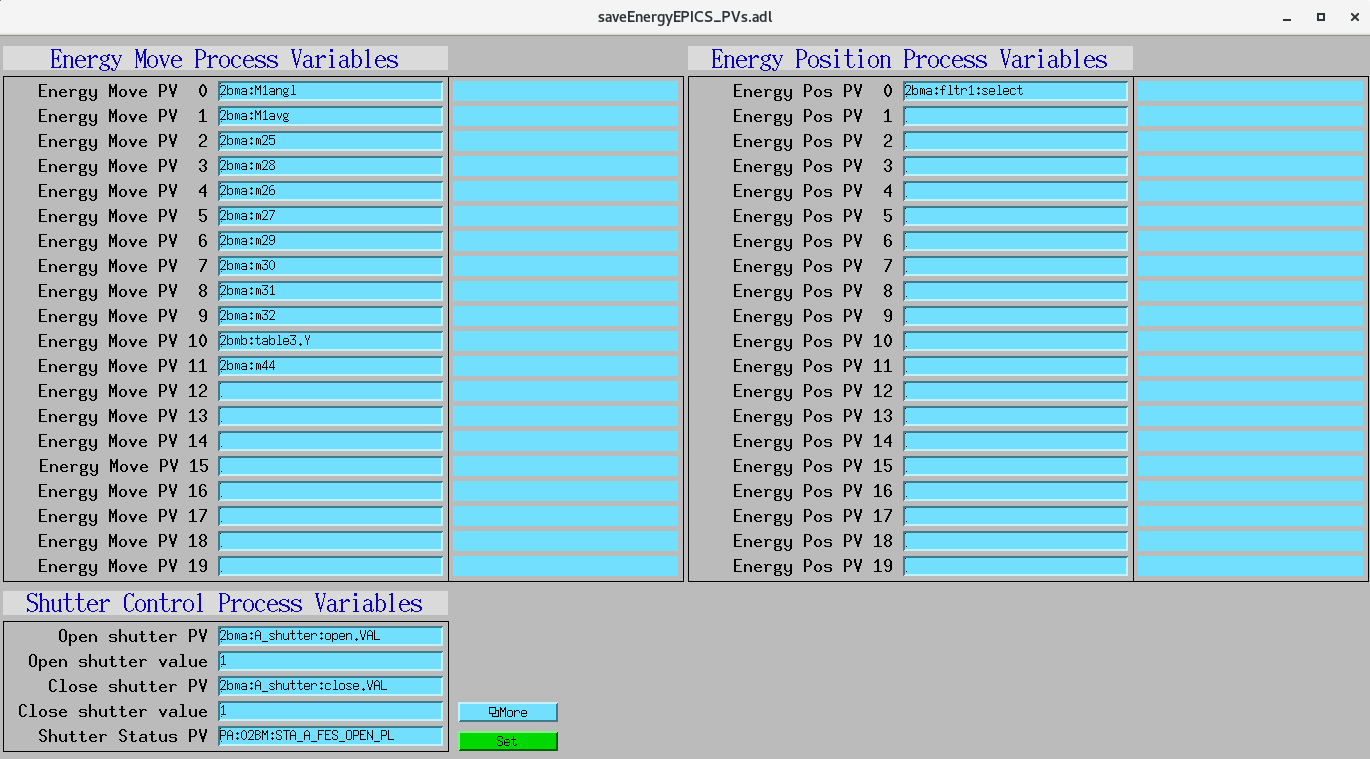
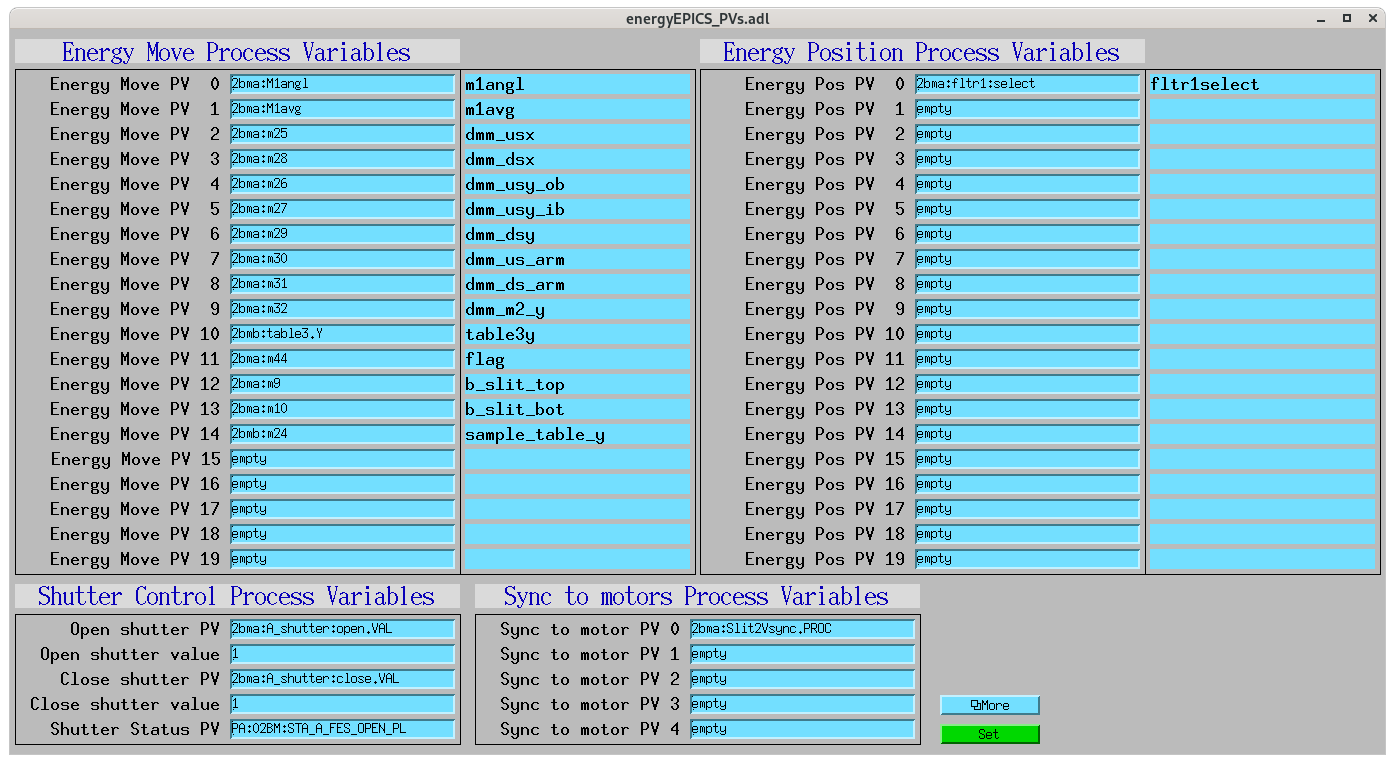
docs update

diff --git a/docs/source/energyApp.rst b/docs/source/energyApp.rst
@@ -179,28 +179,43 @@ Energy Pos PV Names
     - stringout
     - It is used to store the PV description. If available this will be derived from the EnergyMove0PVName description if not it will be created using the EnergyMove0PVName itself. These PVs will be used as key entry in the dictionary storing the pre-calibrated position for each motor.
 
+Sync PV Names
+~~~~~~~~~~~~~
+
+.. cssclass:: table-bordered table-striped table-hover
+.. list-table::
+  :header-rows: 1
+  :widths: 5 5 90
+
+  * - Record name
+    - Record type
+    - Description
+  * - $(P)$(R)Sync0PVName
+    - stringout
+    - Contains the name of the sync to motor PV that will be set to 1 at the end of an energy change.
 
 medm files
 ----------
 
-energy.adl
-^^^^^^^^^^
-
-The following is the MEDM screen :download:`energy.adl <../../energyApp/op/adl/energy.adl>` during a scan. 
-The status information is updating.
-
-.. image:: img/energy_01.png
-    :width: 75%
-    :align: center
-
 energyEPICS_PVs.adl
 ^^^^^^^^^^^^^^^^^^^
 
-The following is the MEDM screen :download:`energyEPICS_PVs.adl <../../energyApp/op/adl/energyEPICS_PVs.adl>`. 
-
-If these PVs are changed **energy** must be restarted.
-
-.. image:: img/energyEPICS_PVs.png
+.. figure:: img/energyEPICS_PVs.png
     :width: 75%
     :align: center
+
+    Energy change configuration screen
+
+
+.. warning:: If the above PVs are changed **energy** python server must be restarted.
+
+
+energy.adl
+^^^^^^^^^^
+
+.. figure:: img/energy_01.png
+    :width: 40%
+    :align: center
+
+    Energy change medm screen
 
